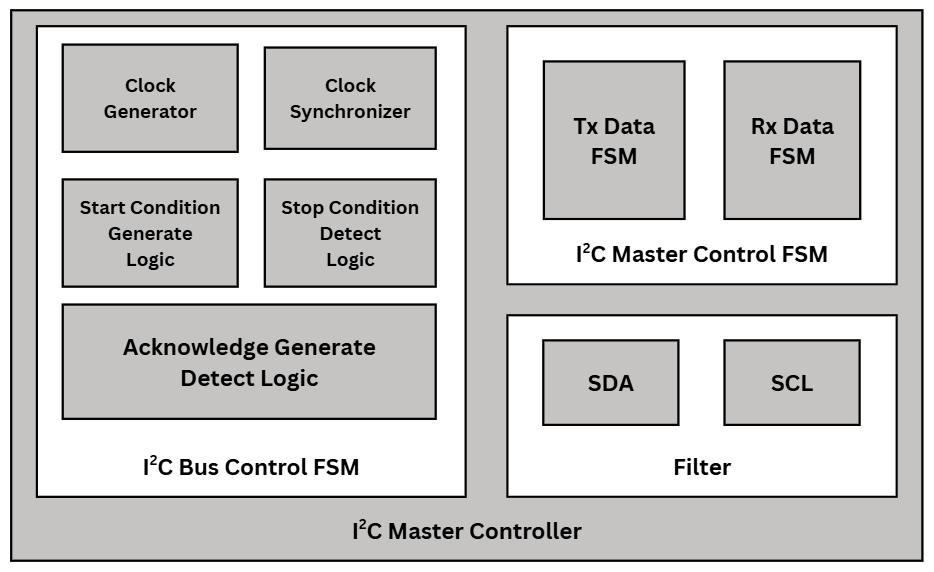
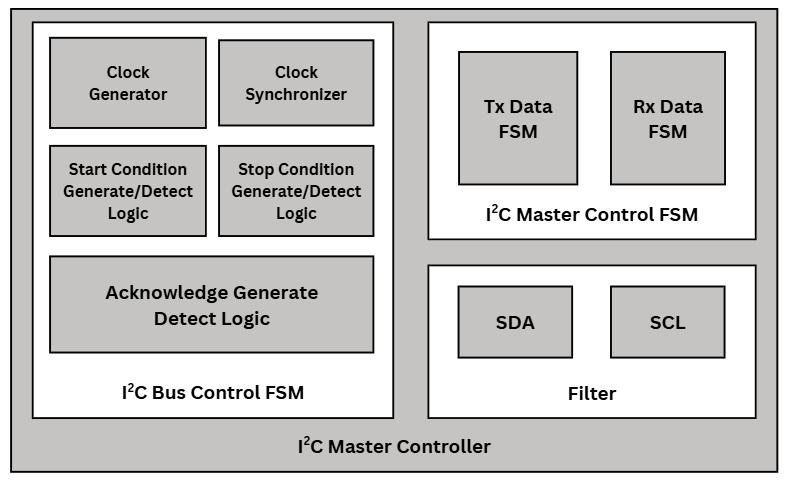
feat: add I2C design documentation, functional diagrams, and FSM explanations

diff --git a/sections_i2c/02_04_phan_ra_func_module.html b/sections_i2c/02_04_phan_ra_func_module.html
@@ -1,0 +1,71 @@
+<div class="slide slide-container"
+    style="justify-content: flex-start; align-items: stretch; box-sizing: border-box; text-align: left;">
+    <h1 class="gradient-text"
+        style="border-bottom: 3px solid #005ce6; padding-bottom: 12px; display: inline-block; width: 100%; max-width: 100%; margin-bottom: 0.75rem;">
+        Bảy khối chức năng — vai trò kỹ thuật</h1>
+    <p style="font-size: 1.02rem; color: #475569; margin: -0.35rem 0 1rem; line-height: 1.45;">Theo mục “Mô tả thiết kế”
+        — mỗi khối có một phần trách nhiệm rõ để tách <strong>chính sách byte</strong> (master) và <strong>bit-level
+            timing bus</strong> (bus).</p>
+    <div style="width: 100%; overflow-x: auto; border-radius: 12px; border: 1px solid #e2e8f0; margin: 0.5rem 0;">
+        <table style="width: 100%; border-collapse: collapse; font-size: 0.92rem;">
+            <thead>
+                <tr>
+                    <th
+                        style="width: 26%; font-weight: 700; text-align: left; padding: 0.55rem 0.65rem; background: linear-gradient(90deg, #0c4a6e, #0369a1); color: #fff; font-size: 0.9rem;">
+                        Khối</th>
+                    <th
+                        style="font-weight: 700; text-align: left; padding: 0.55rem 0.65rem; background: linear-gradient(90deg, #0c4a6e, #0369a1); color: #fff; font-size: 0.9rem;">
+                        Nhiệm vụ</th>
+                </tr>
+            </thead>
+            <tbody>
+                <tr style="background: #fff;">
+                    <td style="padding: 0.5rem 0.65rem; border: 1px solid #e2e8f0; vertical-align: top;">
+                        <strong>Processor Interface</strong></td>
+                    <td style="padding: 0.5rem 0.65rem; border: 1px solid #e2e8f0; vertical-align: top;">Đọc/ghi thanh
+                        ghi điều khiển/trạng thái; tạo xung chọn và handshake với bus nội bộ SoC (timing đặt theo clock
+                        hệ thống).</td>
+                </tr>
+                <tr style="background: #f8fafc;">
+                    <td style="padding: 0.5rem 0.65rem; border: 1px solid #e2e8f0; vertical-align: top;"><strong>I2C
+                            Master Control FSM</strong></td>
+                    <td style="padding: 0.5rem 0.65rem; border: 1px solid #e2e8f0; vertical-align: top;">FSM mức
+                        <strong>byte</strong>: IDLE → START → SEND_ADDR → ADDR_ACK → TX_DATA / RX_DATA → DATA_ACK → STOP
+                        → DONE; phối hợp với bộ đếm byte.</td>
+                </tr>
+                <tr style="background: #fff;">
+                    <td style="padding: 0.5rem 0.65rem; border: 1px solid #e2e8f0; vertical-align: top;"><strong>I2C Bus
+                            Control FSM</strong></td>
+                    <td style="padding: 0.5rem 0.65rem; border: 1px solid #e2e8f0; vertical-align: top;">FSM mức
+                        <strong>bit</strong> trên bus: sinh START/STOP đúng điều kiện SCL; ACK bit; phát hiện điều kiện
+                        đa master nếu có.</td>
+                </tr>
+                <tr style="background: #f8fafc;">
+                    <td style="padding: 0.5rem 0.65rem; border: 1px solid #e2e8f0; vertical-align: top;"><strong>Clock
+                            Gen &amp; Sync</strong></td>
+                    <td style="padding: 0.5rem 0.65rem; border: 1px solid #e2e8f0; vertical-align: top;">Từ
+                        <code>i_clk_div_*</code> và mode → tạo nhịp SCL; đồng bộ mẫu SDA/SCL; xử lý <strong>clock
+                            stretching</strong>.</td>
+                </tr>
+                <tr style="background: #fff;">
+                    <td style="padding: 0.5rem 0.65rem; border: 1px solid #e2e8f0; vertical-align: top;"><strong>Tx / Rx
+                            Data FSM</strong></td>
+                    <td style="padding: 0.5rem 0.65rem; border: 1px solid #e2e8f0; vertical-align: top;">Đệm và dịch
+                        từng bit trong byte gửi/nhận; báo cho master FSM khi byte hoàn tất.</td>
+                </tr>
+                <tr style="background: #f8fafc;">
+                    <td style="padding: 0.5rem 0.65rem; border: 1px solid #e2e8f0; vertical-align: top;">
+                        <strong>Start/Stop det &amp; gen</strong></td>
+                    <td style="padding: 0.5rem 0.65rem; border: 1px solid #e2e8f0; vertical-align: top;">Logic tạo và
+                        nhận diện điều kiện START/STOP trên bus.</td>
+                </tr>
+                <tr style="background: #fff;">
+                    <td style="padding: 0.5rem 0.65rem; border: 1px solid #e2e8f0; vertical-align: top;">
+                        <strong>Acknowledge logic</strong></td>
+                    <td style="padding: 0.5rem 0.65rem; border: 1px solid #e2e8f0; vertical-align: top;">Xử lý bit ACK
+                        thứ 9 sau mỗi byte (địa chỉ hoặc dữ liệu).</td>
+                </tr>
+            </tbody>
+        </table>
+    </div>
+</div>

diff --git a/sections_i2c/02_10_master_fsm_giai_thich.html b/sections_i2c/02_10_master_fsm_giai_thich.html
@@ -1,0 +1,56 @@
+<div class="slide slide-container"
+    style="justify-content: flex-start; align-items: stretch; box-sizing: border-box; text-align: left;">
+    <h1 class="gradient-text"
+        style="border-bottom: 3px solid #005ce6; padding-bottom: 12px; display: inline-block; width: 100%; max-width: 100%; margin-bottom: 0.75rem;">
+        I2C Master Control FSM — chuỗi trạng thái (fig04)</h1>
+    <p style="font-size: 1.02rem; color: #475569; margin: -0.35rem 0 1rem; line-height: 1.45;">FSM <strong>mức byte</strong> điều phối toàn bộ giao dịch từ lệnh phần mềm đến STOP/DONE.</p>
+    <div
+        style="width: 100%; overflow-x: auto; border-radius: 12px; border: 1px solid #e2e8f0; margin: 0.5rem 0;">
+        <table style="width: 100%; border-collapse: collapse; font-size: 0.92rem;">
+            <thead>
+                <tr>
+                    <th
+                        style="font-weight: 700; text-align: left; padding: 0.55rem 0.65rem; background: linear-gradient(90deg, #0c4a6e, #0369a1); color: #fff; font-size: 0.92rem;">
+                        Trạng thái</th>
+                    <th
+                        style="font-weight: 700; text-align: left; padding: 0.55rem 0.65rem; background: linear-gradient(90deg, #0c4a6e, #0369a1); color: #fff; font-size: 0.92rem;">
+                        Ý nghĩa vận hành</th>
+                </tr>
+            </thead>
+            <tbody>
+                <tr style="background: #fff;">
+                    <td style="padding: 0.5rem 0.65rem; border: 1px solid #e2e8f0; vertical-align: top;"><code>IDLE</code></td>
+                    <td style="padding: 0.5rem 0.65rem; border: 1px solid #e2e8f0; vertical-align: top;">Chờ lệnh; bus có thể rảnh hoặc chờ cấu hình.</td>
+                </tr>
+                <tr style="background: #f8fafc;">
+                    <td style="padding: 0.5rem 0.65rem; border: 1px solid #e2e8f0; vertical-align: top;"><code>START</code></td>
+                    <td style="padding: 0.5rem 0.65rem; border: 1px solid #e2e8f0; vertical-align: top;">Phát điều kiện START; chuẩn bị byte địa chỉ.</td>
+                </tr>
+                <tr style="background: #fff;">
+                    <td style="padding: 0.5rem 0.65rem; border: 1px solid #e2e8f0; vertical-align: top;"><code>SEND_ADDR</code></td>
+                    <td style="padding: 0.5rem 0.65rem; border: 1px solid #e2e8f0; vertical-align: top;">Đẩy 7+1 bit địa chỉ qua shifter/bit FSM.</td>
+                </tr>
+                <tr style="background: #f8fafc;">
+                    <td style="padding: 0.5rem 0.65rem; border: 1px solid #e2e8f0; vertical-align: top;"><code>ADDR_ACK</code></td>
+                    <td style="padding: 0.5rem 0.65rem; border: 1px solid #e2e8f0; vertical-align: top;">Kiểm tra ACK địa chỉ — lỗi có thể dẫn tới TX_ERR và dừng an toàn.</td>
+                </tr>
+                <tr style="background: #fff;">
+                    <td style="padding: 0.5rem 0.65rem; border: 1px solid #e2e8f0; vertical-align: top;"><code>TX_DATA</code> / <code>RX_DATA</code></td>
+                    <td style="padding: 0.5rem 0.65rem; border: 1px solid #e2e8f0; vertical-align: top;">Lặp theo số byte; phối hợp với đếm byte và handshake dữ liệu với CPU.</td>
+                </tr>
+                <tr style="background: #f8fafc;">
+                    <td style="padding: 0.5rem 0.65rem; border: 1px solid #e2e8f0; vertical-align: top;"><code>DATA_ACK</code></td>
+                    <td style="padding: 0.5rem 0.65rem; border: 1px solid #e2e8f0; vertical-align: top;">Xử lý bit ACK sau mỗi byte dữ liệu.</td>
+                </tr>
+                <tr style="background: #fff;">
+                    <td style="padding: 0.5rem 0.65rem; border: 1px solid #e2e8f0; vertical-align: top;"><code>STOP</code></td>
+                    <td style="padding: 0.5rem 0.65rem; border: 1px solid #e2e8f0; vertical-align: top;">Sinh STOP khi đủ byte hoặc lỗi/abort.</td>
+                </tr>
+                <tr style="background: #f8fafc;">
+                    <td style="padding: 0.5rem 0.65rem; border: 1px solid #e2e8f0; vertical-align: top;"><code>DONE</code></td>
+                    <td style="padding: 0.5rem 0.65rem; border: 1px solid #e2e8f0; vertical-align: top;">Báo hoàn tất; set TX_DONE/RX_DONE; có thể về IDLE.</td>
+                </tr>
+            </tbody>
+        </table>
+    </div>
+</div>

diff --git a/sections_i2c/01_04_i2c_timing_mode.html b/sections_i2c/01_04_i2c_timing_mode.html
@@ -2,7 +2,7 @@
     style="justify-content: flex-start; align-items: stretch; box-sizing: border-box; text-align: left;">
     <h1 class="gradient-text"
         style="border-bottom: 3px solid #005ce6; padding-bottom: 12px; display: inline-block; width: 100%; max-width: 100%; margin-bottom: 1rem;">
-        Chế độ tốc độ bus &amp; liên hệ clock hệ thống</h1>
+        Chế độ clock</h1>
     <div style="width: 100%; overflow-x: auto; border-radius: 12px; border: 1px solid #e2e8f0; margin: 0.5rem 0;">
         <table style="width: 100%; border-collapse: collapse; font-size: 0.95rem;">
             <thead>
@@ -21,7 +21,8 @@
             <tbody>
                 <tr style="background: #fff;">
                     <td style="padding: 0.5rem 0.65rem; border: 1px solid #e2e8f0; vertical-align: top;">
-                        <strong>Standard</strong></td>
+                        <strong>Standard</strong>
+                    </td>
                     <td style="padding: 0.5rem 0.65rem; border: 1px solid #e2e8f0; vertical-align: top;">~100 kHz</td>
                     <td style="padding: 0.5rem 0.65rem; border: 1px solid #e2e8f0; vertical-align: top;">Chu kỳ SCL ~10
                         µs
@@ -31,7 +32,8 @@
                 </tr>
                 <tr style="background: #f8fafc;">
                     <td style="padding: 0.5rem 0.65rem; border: 1px solid #e2e8f0; vertical-align: top;">
-                        <strong>Fast</strong></td>
+                        <strong>Fast</strong>
+                    </td>
                     <td style="padding: 0.5rem 0.65rem; border: 1px solid #e2e8f0; vertical-align: top;">~400 kHz</td>
                     <td style="padding: 0.5rem 0.65rem; border: 1px solid #e2e8f0; vertical-align: top;">Chu kỳ ~2.5 µs
                         —

diff --git a/index.html b/index.html
@@ -25,19 +25,17 @@
             'sections_i2c/01_05_doi_chieu_yeu_cau_de.html',
             'sections_i2c/02_00_chapter.html',
             'sections_i2c/02_01_kien_truc_khoi.html',
-            'sections_i2c/02_09_phan_ra_module_chi_tiet.html',
-            'sections_i2c/02_02_thanh_ghi.html',
-            'sections_i2c/02_10_config_status_chi_tiet.html',
-            'sections_i2c/02_12_processor_interface.html',
-            'sections_i2c/02_03_ghi_doc.html',
-            'sections_i2c/02_11_clock_gen_stretching.html',
-            'sections_i2c/02_04_repeated_start.html',
-            'sections_i2c/02_05_rtl_blocks.html',
-            'sections_i2c/02_06_bus_fsm.html',
-            'sections_i2c/02_13_bus_fsm_giai_thich.html',
-            'sections_i2c/02_07_master_fsm.html',
-            'sections_i2c/02_14_master_fsm_giai_thich.html',
-            'sections_i2c/02_08_byte_counter.html',
+            'sections_i2c/02_02_phan_ra_top_module.html',
+            'sections_i2c/02_03_rtl_blocks.html',
+            'sections_i2c/02_04_phan_ra_func_module.html',
+            'sections_i2c/02_05_bus_fsm_block_diagram.html',
+            'sections_i2c/02_06_bus_fsm_graph.html',
+            'sections_i2c/02_07_bus_fsm_giai_thich.html',
+            'sections_i2c/02_08_master_fsm_block_diagram.html',
+            'sections_i2c/02_09_master_fsm_graph.html',
+            'sections_i2c/02_10_master_fsm_giai_thich.html',
+            'sections_i2c/02_11_ghi_doc.html',
+            'sections_i2c/02_12_repeated_start.html',
             'sections_i2c/03_00_chapter.html',
             'sections_i2c/03_01_mo_phong.html',
             'sections_i2c/03_06_tb_tx_chi_tiet.html',

diff --git a/sections_i2c/02_06_bus_fsm_graph.html b/sections_i2c/02_06_bus_fsm_graph.html
@@ -2,15 +2,13 @@
     style="justify-content: flex-start; align-items: stretch; box-sizing: border-box; text-align: left;">
     <h1 class="gradient-text"
         style="border-bottom: 3px solid #005ce6; padding-bottom: 14px; display: inline-block; width: 100%; max-width: 100%; margin-bottom: 0.5rem;">
-        Fig04 — I2C Master Control FSM</h1>
-    <p style="color: #475569; margin: 0 0 1.1rem; line-height: 1.45; max-width: 56rem;">FSM mức <strong>byte</strong> —
-        IDLE … DONE; bảng trạng thái ở slide giải thích.</p>
+        Sơ đồ FSM của I2C Bus Control</h1>
     <div class="text-block-shadow"
         style="padding: 1.35rem 1.6rem; border-radius: 18px; background: linear-gradient(165deg, #f8fafc 0%, #ffffff 55%); border: 1px solid #e2e8f0; max-width: 100%;">
-        <img src="figures/i2c_from_docx/i2c_master_control_fsm.png"
-            alt="I2C Master Control FSM — IDLE START SEND_ADDR TX RX STOP DONE">
+        <img src="figures/i2c_from_docx/fsm_bus_control.png"
+            alt="I2C Bus Control FSM — trạng thái bit timing trên SCL SDA">
         <p
             style="margin-top: 1rem; color: #334155; line-height: 1.5; max-width: 54rem; margin-left: auto; margin-right: auto; text-align: center;">
-            FSM <strong>mức byte</strong>: IDLE … DONE — bảng giải thích từng trạng thái ở slide tiếp theo.</p>
+            FSM <strong>bit timing</strong> trên SCL/SDA; START/STOP; ACK bit; phát hiện điều kiện đa master.</p>
     </div>
 </div>

diff --git a/sections_i2c/02_03_rtl_blocks.html b/sections_i2c/02_03_rtl_blocks.html
@@ -2,16 +2,15 @@
     style="justify-content: flex-start; align-items: stretch; box-sizing: border-box; text-align: left;">
     <h1 class="gradient-text"
         style="border-bottom: 3px solid #005ce6; padding-bottom: 14px; display: inline-block; width: 100%; max-width: 100%; margin-bottom: 0.5rem;">
-        Fig02 — RTL functional block diagram</h1>
-    <p style="color: #475569; margin: 0 0 1.1rem; line-height: 1.45; max-width: 56rem;">Mức RTL — hierarchy để đọc HDL
-        và khớp báo cáo.</p>
+        Sơ đồ khối chức năng của I2C Master Controller</h1>
     <div class="text-block-shadow"
         style="padding: 1.35rem 1.6rem; border-radius: 18px; background: linear-gradient(165deg, #f8fafc 0%, #ffffff 55%); border: 1px solid #e2e8f0; max-width: 100%;">
         <img src="figures/i2c_from_docx/functional_block_diagram.png"
             alt="RTL functional block diagram — clock, reset, FSM, SCL SDA pad">
         <p
             style="margin-top: 1rem; color: #334155; line-height: 1.5; max-width: 54rem; margin-left: auto; margin-right: auto; text-align: center;">
-            Clock, reset, đếm, FSM dữ liệu và nối tới <strong>SCL/SDA pad</strong> — cơ sở đọc HDL và hierarchy báo cáo.
+            Clock Generator &amp; Synchronizer - START/STOP Gen/Detect Logic - ACK Gen/Detect Logic -
+            Transmitted &amp; Received Data FSM - Filtered SCL &amp; SDA.
         </p>
     </div>
 </div>

diff --git a/sections_i2c/02_05_bus_fsm_block_diagram.html b/sections_i2c/02_05_bus_fsm_block_diagram.html
@@ -2,16 +2,12 @@
     style="justify-content: flex-start; align-items: stretch; box-sizing: border-box; text-align: left;">
     <h1 class="gradient-text"
         style="border-bottom: 3px solid #005ce6; padding-bottom: 14px; display: inline-block; width: 100%; max-width: 100%; margin-bottom: 0.5rem;">
-        Fig03 — I2C Bus Control FSM</h1>
+        I2C Bus Control FSM Block diagram</h1>
     <p style="color: #475569; margin: 0 0 1.1rem; line-height: 1.45; max-width: 56rem;">FSM mức <strong>bit</strong>
         trên đường bus — timing START/STOP/ACK.</p>
     <div class="text-block-shadow"
         style="padding: 1.35rem 1.6rem; border-radius: 18px; background: linear-gradient(165deg, #f8fafc 0%, #ffffff 55%); border: 1px solid #e2e8f0; max-width: 100%;">
         <img src="figures/i2c_from_docx/i2c_bus_control_fsm.png"
             alt="I2C Bus Control FSM — trạng thái bit timing trên SCL SDA">
-        <p
-            style="margin-top: 1rem; color: #334155; line-height: 1.5; max-width: 54rem; margin-left: auto; margin-right: auto; text-align: center;">
-            FSM <strong>bit timing</strong> trên SCL/SDA; START/STOP; ACK bit; phát hiện điều kiện đa master. Xem slide
-            giải thích liền sau.</p>
     </div>
 </div>

diff --git a/sections_i2c/01_05_doi_chieu_yeu_cau_de.html b/sections_i2c/01_05_doi_chieu_yeu_cau_de.html
@@ -2,7 +2,7 @@
     style="justify-content: flex-start; align-items: stretch; box-sizing: border-box; text-align: left;">
     <h1 class="gradient-text"
         style="border-bottom: 3px solid #005ce6; padding-bottom: 12px; display: inline-block; width: 100%; max-width: 100%; margin-bottom: 0.75rem;">
-        Đối chiếu yêu cầu đề tài → nội dung trình bày</h1>
+        Đối chiếu yêu cầu đề tài với nội dung trình bày</h1>
     <p style="font-size: 1.02rem; color: #475569; margin: 0 0 0.75rem; line-height: 1.45;">Bám mục <strong>Yêu cầu đề
             tài</strong> trong <code>i2c_report_body.tex</code>: mỗi hàng là một tiêu chí có thể kiểm kê khi chấm.</p>
     <div style="width: 100%; overflow-x: auto; border-radius: 12px; border: 1px solid #e2e8f0; margin: 0.5rem 0;">

diff --git a/sections_i2c/02_09_master_fsm_graph.html b/sections_i2c/02_09_master_fsm_graph.html
@@ -1,0 +1,11 @@
+<div class="slide slide-container"
+    style="justify-content: flex-start; align-items: stretch; box-sizing: border-box; text-align: left;">
+    <h1 class="gradient-text"
+        style="border-bottom: 3px solid #005ce6; padding-bottom: 14px; display: inline-block; width: 100%; max-width: 100%; margin-bottom: 0.5rem;">
+        Sơ đồ FSM của I2C Master Control</h1>
+    <div class="text-block-shadow"
+        style="padding: 1.35rem 1.6rem; border-radius: 18px; background: linear-gradient(165deg, #f8fafc 0%, #ffffff 55%); border: 1px solid #e2e8f0; max-width: 100%;">
+        <img src="figures/i2c_from_docx/fsm_master_control.png"
+            alt="I2C Master Control FSM — trạng thái bit timing trên SCL SDA">
+    </div>
+</div>

diff --git a/sections_i2c/02_08_master_fsm_block_diagram.html b/sections_i2c/02_08_master_fsm_block_diagram.html
@@ -1,0 +1,11 @@
+<div class="slide slide-container"
+    style="justify-content: flex-start; align-items: stretch; box-sizing: border-box; text-align: left;">
+    <h1 class="gradient-text"
+        style="border-bottom: 3px solid #005ce6; padding-bottom: 14px; display: inline-block; width: 100%; max-width: 100%; margin-bottom: 0.5rem;">
+        Fig04 — I2C Master Control FSM</h1>
+    <div class="text-block-shadow"
+        style="padding: 1.35rem 1.6rem; border-radius: 18px; background: linear-gradient(165deg, #f8fafc 0%, #ffffff 55%); border: 1px solid #e2e8f0; max-width: 100%;">
+        <img src="figures/i2c_from_docx/i2c_master_control_fsm.png"
+            alt="I2C Master Control FSM — IDLE START SEND_ADDR TX RX STOP DONE">
+    </div>
+</div>

diff --git a/sections_i2c/01_03_giao_thuc_i2c.html b/sections_i2c/01_03_giao_thuc_i2c.html
@@ -2,7 +2,7 @@
     style="justify-content: flex-start; align-items: stretch; box-sizing: border-box; text-align: left;">
     <h1 class="gradient-text"
         style="border-bottom: 3px solid #005ce6; padding-bottom: 12px; display: inline-block; width: 100%; max-width: 100%; margin-bottom: 1rem;">
-        Giao thức I2C — master góc nhìn vận hành</h1>
+        Giao dịch I2C Master</h1>
     <div style="display: flex; flex-direction: column; gap: 1.25rem; width: 100%;">
         <div
             style="border-radius: 12px; padding: 1rem 1.15rem; border: 1px solid #e2e8f0; background: linear-gradient(180deg, #f8fafc 0%, #fff 40%); border-top: 4px solid #0369a1; box-shadow: 0 4px 14px rgba(15, 23, 42, 0.06);">
